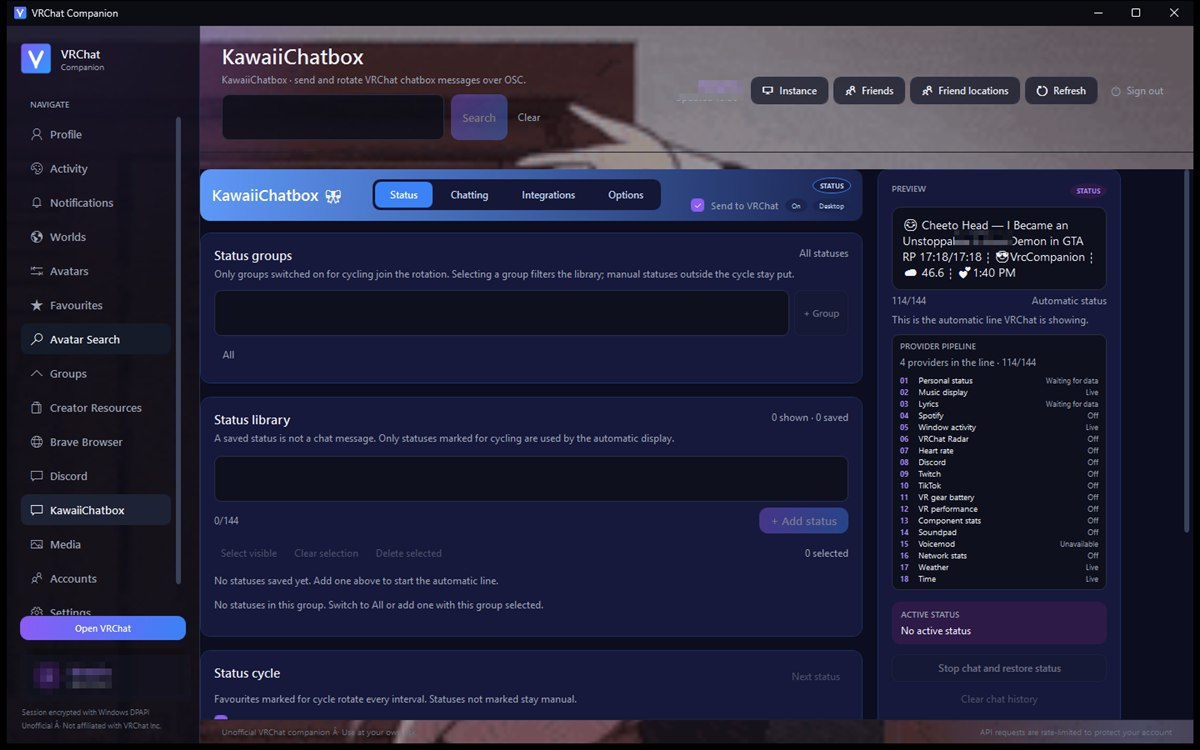
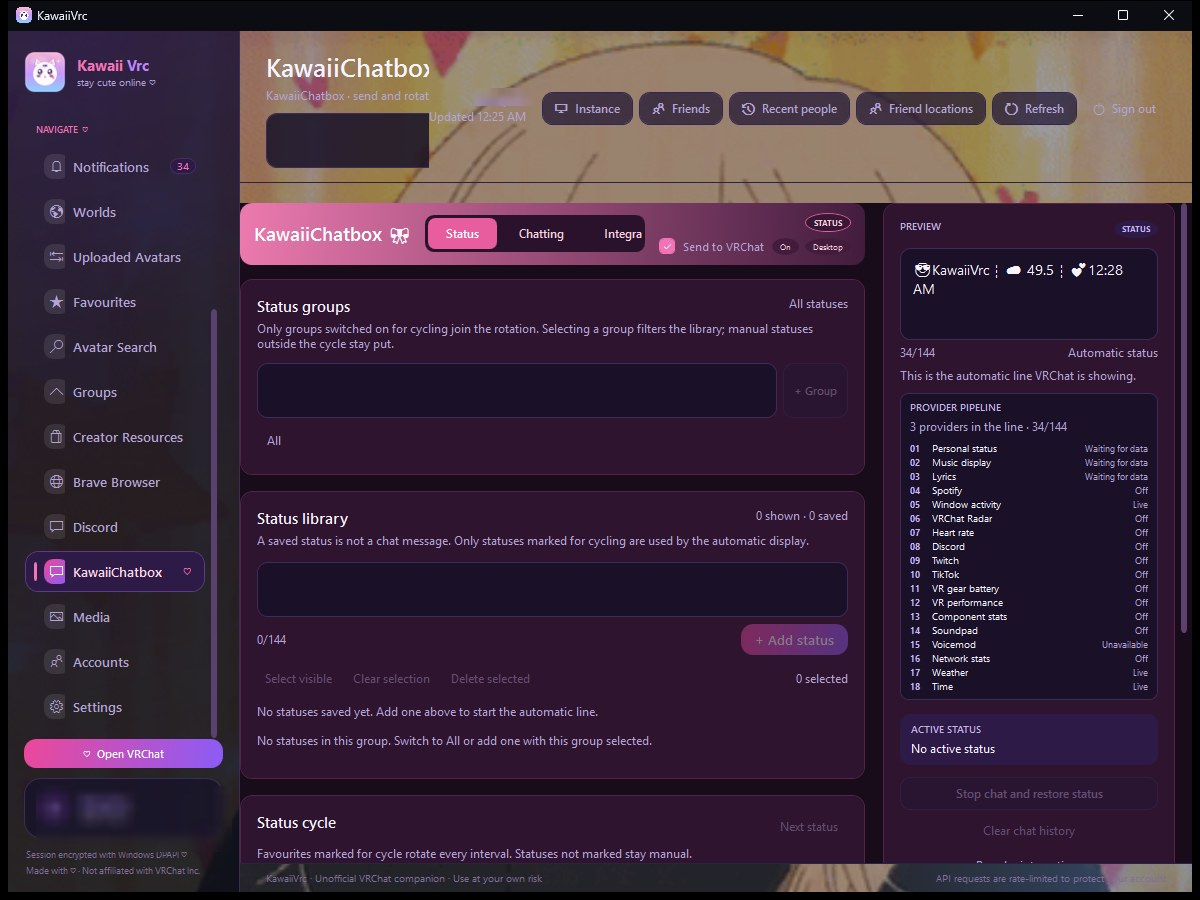
Refresh the README preview with current screenshots
Worlds and KawaiiChatbox were from an older UI; add Avatar Search and Settings
(About/update status) so the preview matches the shipping app.

🤖 Generated with Codebuff

diff --git a/README.md b/README.md
@@ -8,9 +8,11 @@ A kawaii unofficial Windows desktop companion for [VRChat](https://vrchat.com), 
 
 A small, privacy-redacted preview. Account details are blurred; no friend or account names are shown.
 
-| Worlds and quick join | KawaiiChatbox |
+| Worlds, search, and quick join | KawaiiChatbox |
 | --- | --- |
 | ![Worlds, search, and quick join](docs/screenshots/worlds.jpg) | ![Chatbox status and provider pipeline](docs/screenshots/chatbox.jpg) |
+| **Avatar Search** | **Settings, About, and update checks** |
+| ![Avatar Search with public avatar results and wear actions](docs/screenshots/avatar-search.jpg) | ![Settings with the About card and update status](docs/screenshots/settings.jpg) |
 
 ## Current state
 
